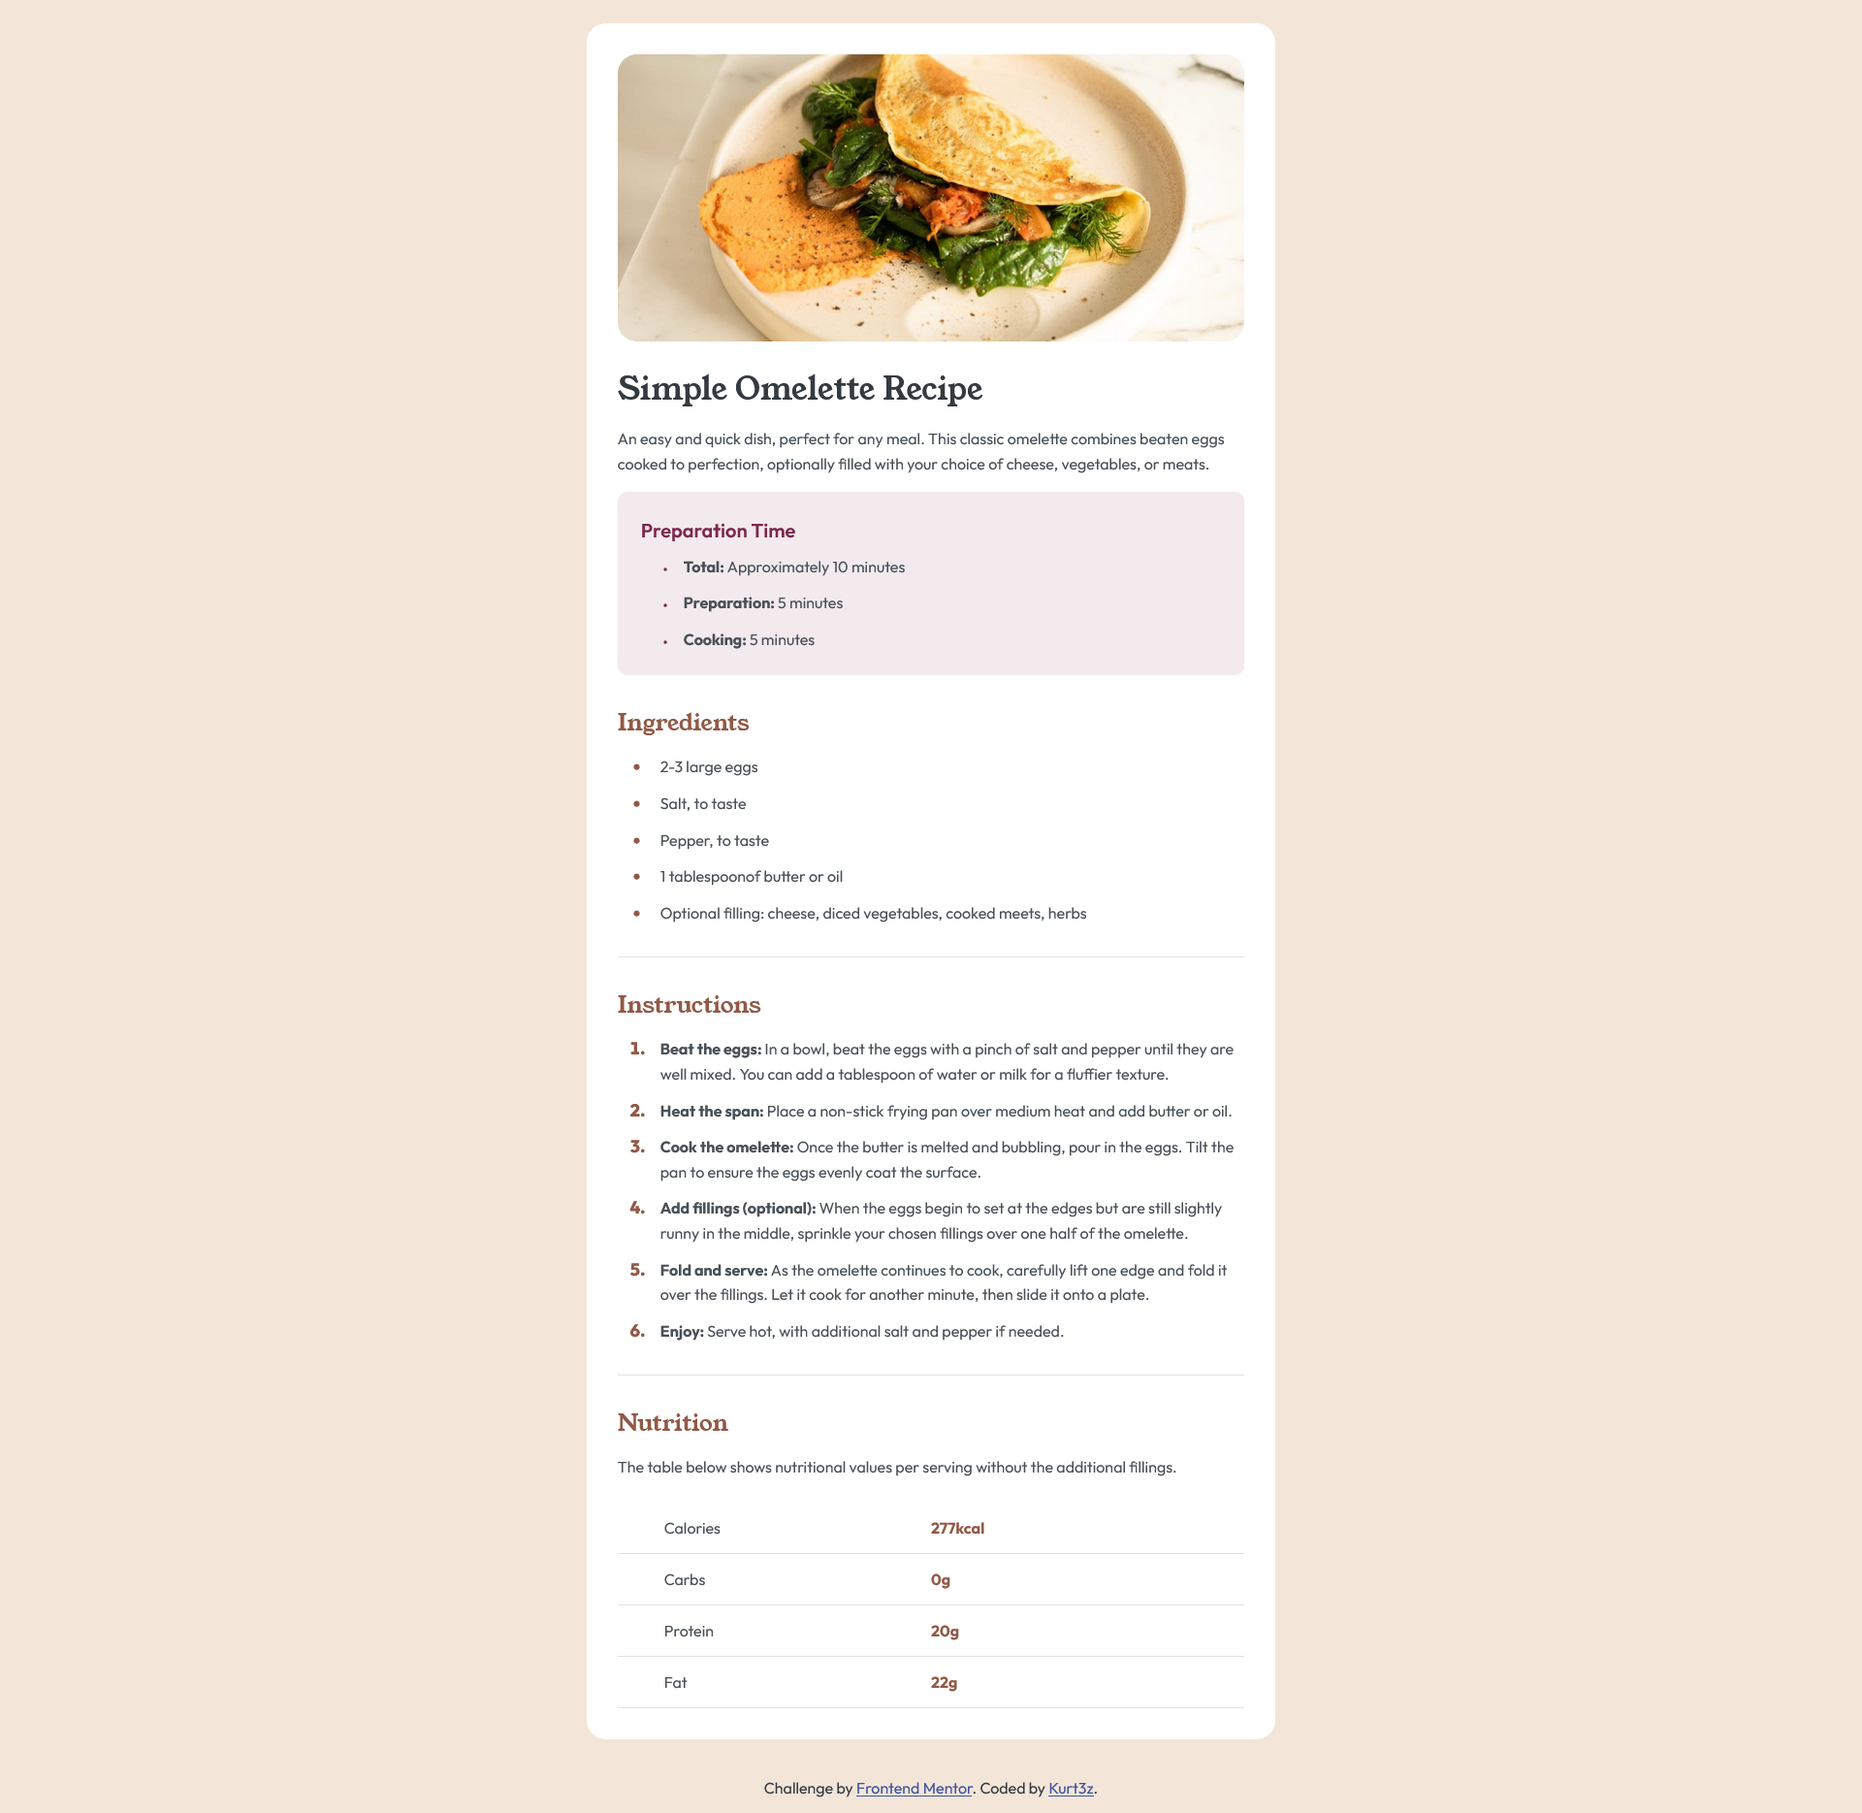
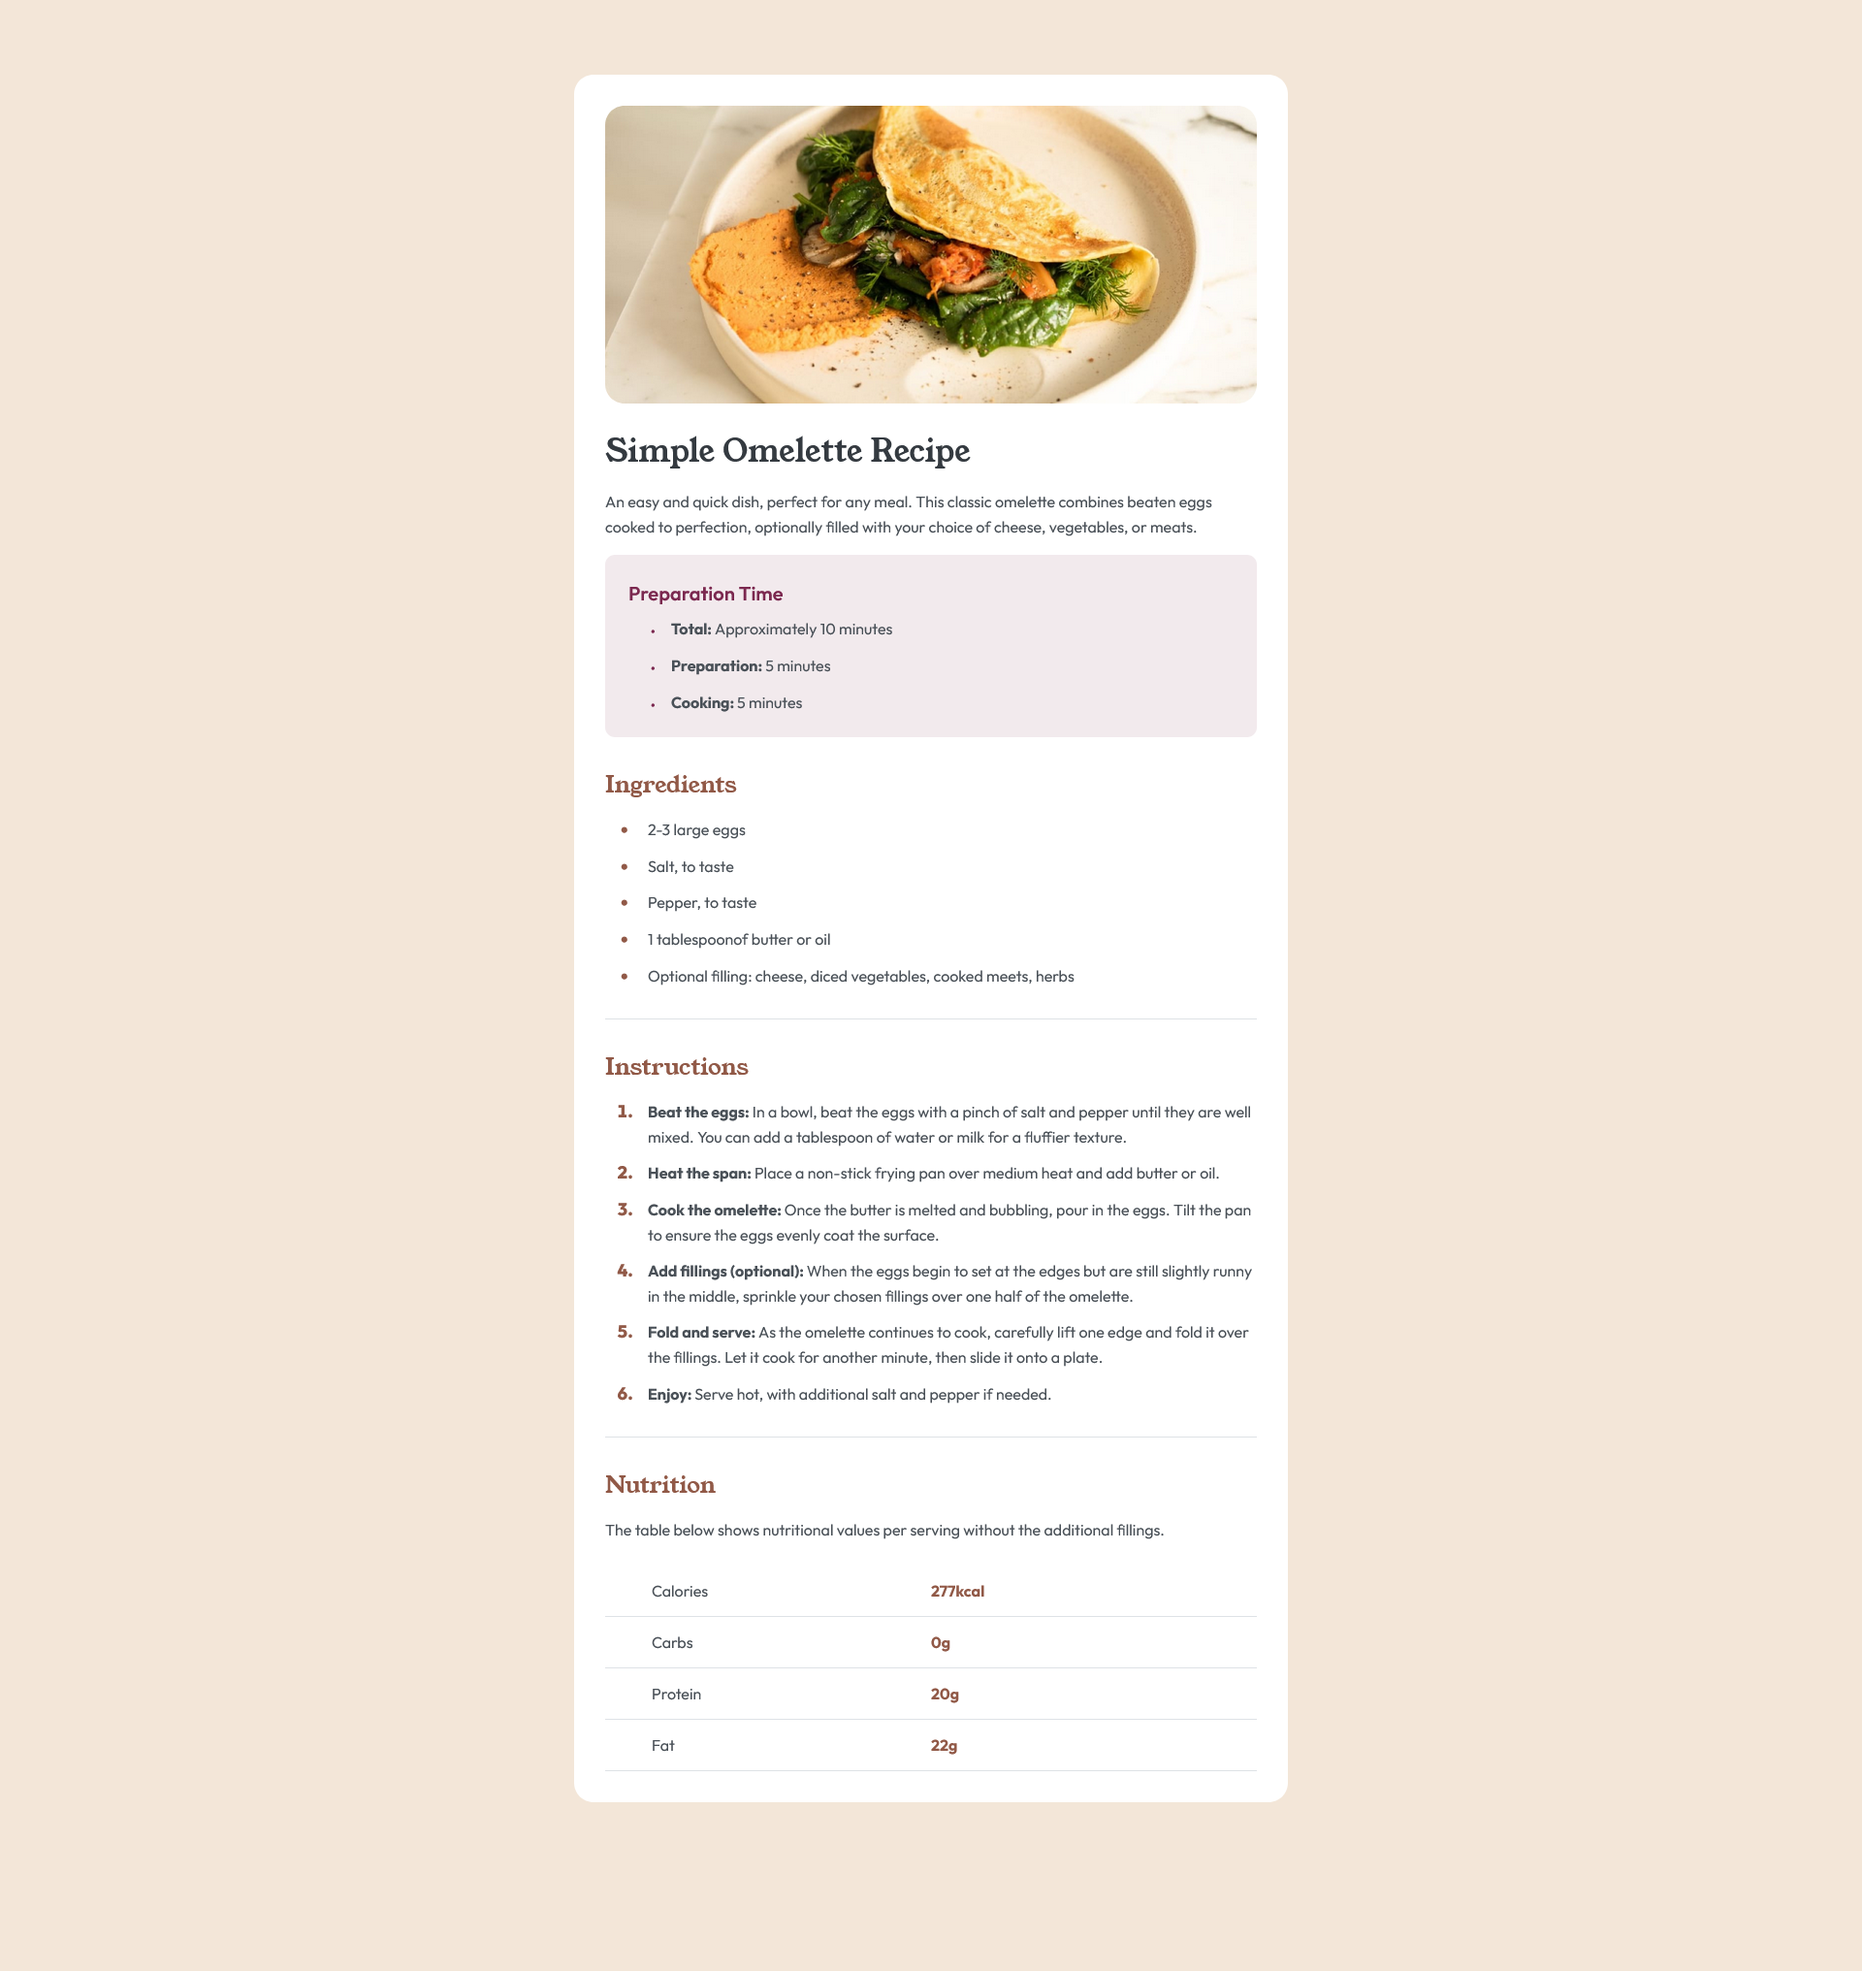
Adjust dimensions

Changed region(s): [[0.2812, 0.0, 0.7188, 0.993]]

diff --git a/style.css b/style.css
@@ -15,6 +15,7 @@ body {
   font-family: "Outfit", sans-serif;
   background-color: #f3e6d8;
   width: 100vw;
+  min-height: 1955px;
   color: #343a40;
   overflow-x: hidden;
 }
@@ -56,9 +57,10 @@ hr {
 .main {
   background-color: #fff;
   border-radius: 20px;
-  width: 37%;
+  width: 100%;
+  max-width: 736px;
   margin: 0 auto;
-  margin-top: 2.4rem;
+  margin-top: 7.7rem;
   padding: 3.2rem;
 }
 

diff --git a/index.html b/index.html
@@ -131,11 +131,11 @@
       </table>
     </main>
 
-    <footer>
+    <!-- <footer>
       <div class="attribution">
         Challenge by <a href="https://www.frontendmentor.io?ref=challenge" target="_blank">Frontend Mentor</a>. Coded by
         <a href="https://github.com/Kurt3z">Kurt3z</a>.
       </div>
-    </footer>
+    </footer> -->
   </body>
 </html>
